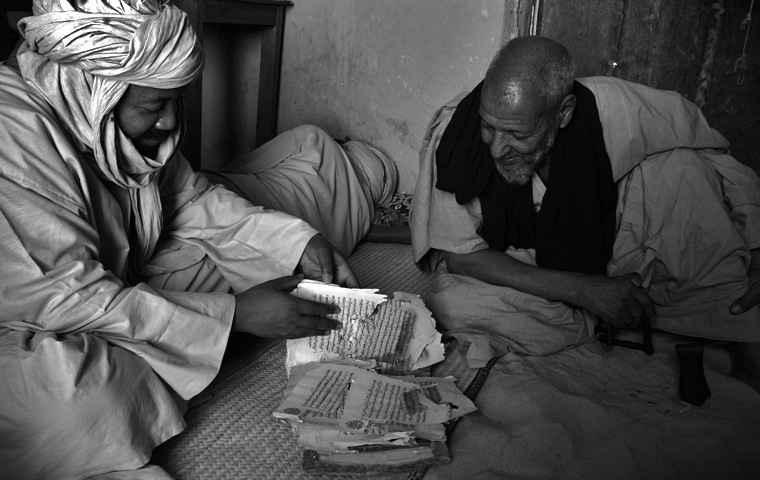
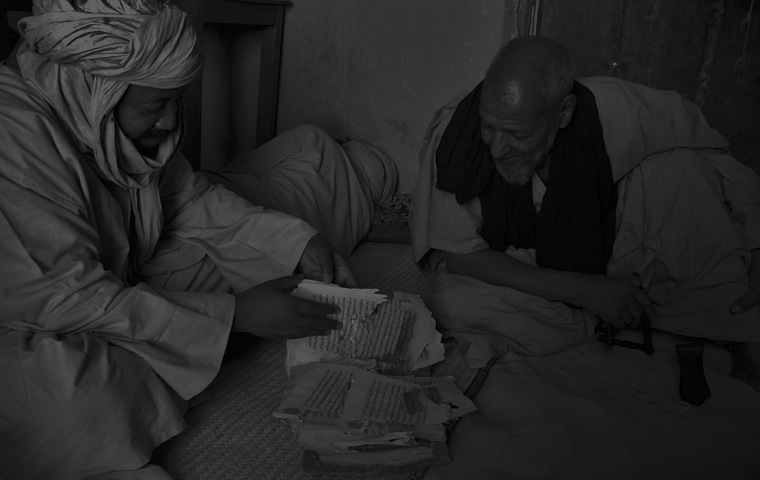
more ie fixes

diff --git a/js/game.js b/js/game.js
@@ -387,7 +387,7 @@ $(function() {
 	/* Called after all of the resources are loaded in */
 	function gameLoaded() {
 		$('#loading').hide();
-		$('#game-holder').append('<img style="opacity:.30" id="bg-image" src="images/bg_init.jpg">');
+		$('#bg-images').append('<img id="bg-image" src="images/bg_init.jpg">');
 		$('#intro-screen').slideDown();
 
 		//Add level select

diff --git a/index.html b/index.html
@@ -34,8 +34,8 @@
 		<div id="game-holder" class="no-select">
 			<div id="score-display"></div>
 			<div id="loading">loading game</div>
+			<div id="bg-images"></div>
 			<div id="intro-screen">
-				<div id="bg-images"></div>
 				<div id="game-title">T160K Libraries in Exile</div>	
 				<div id="situation">
 					The Situation: <br>

diff --git a/css/game.css b/css/game.css
@@ -71,14 +71,14 @@ height:80px;
 }
 
 #bg-images {
-  z-index:0;
+  z-index:1;
   position: absolute;
   top:0px;
   left:0px;
 }
 
 #bg-image {
-	z-index:0;
+	z-index:1;
 	position: absolute;
 	top:0px;
   left:0px;
